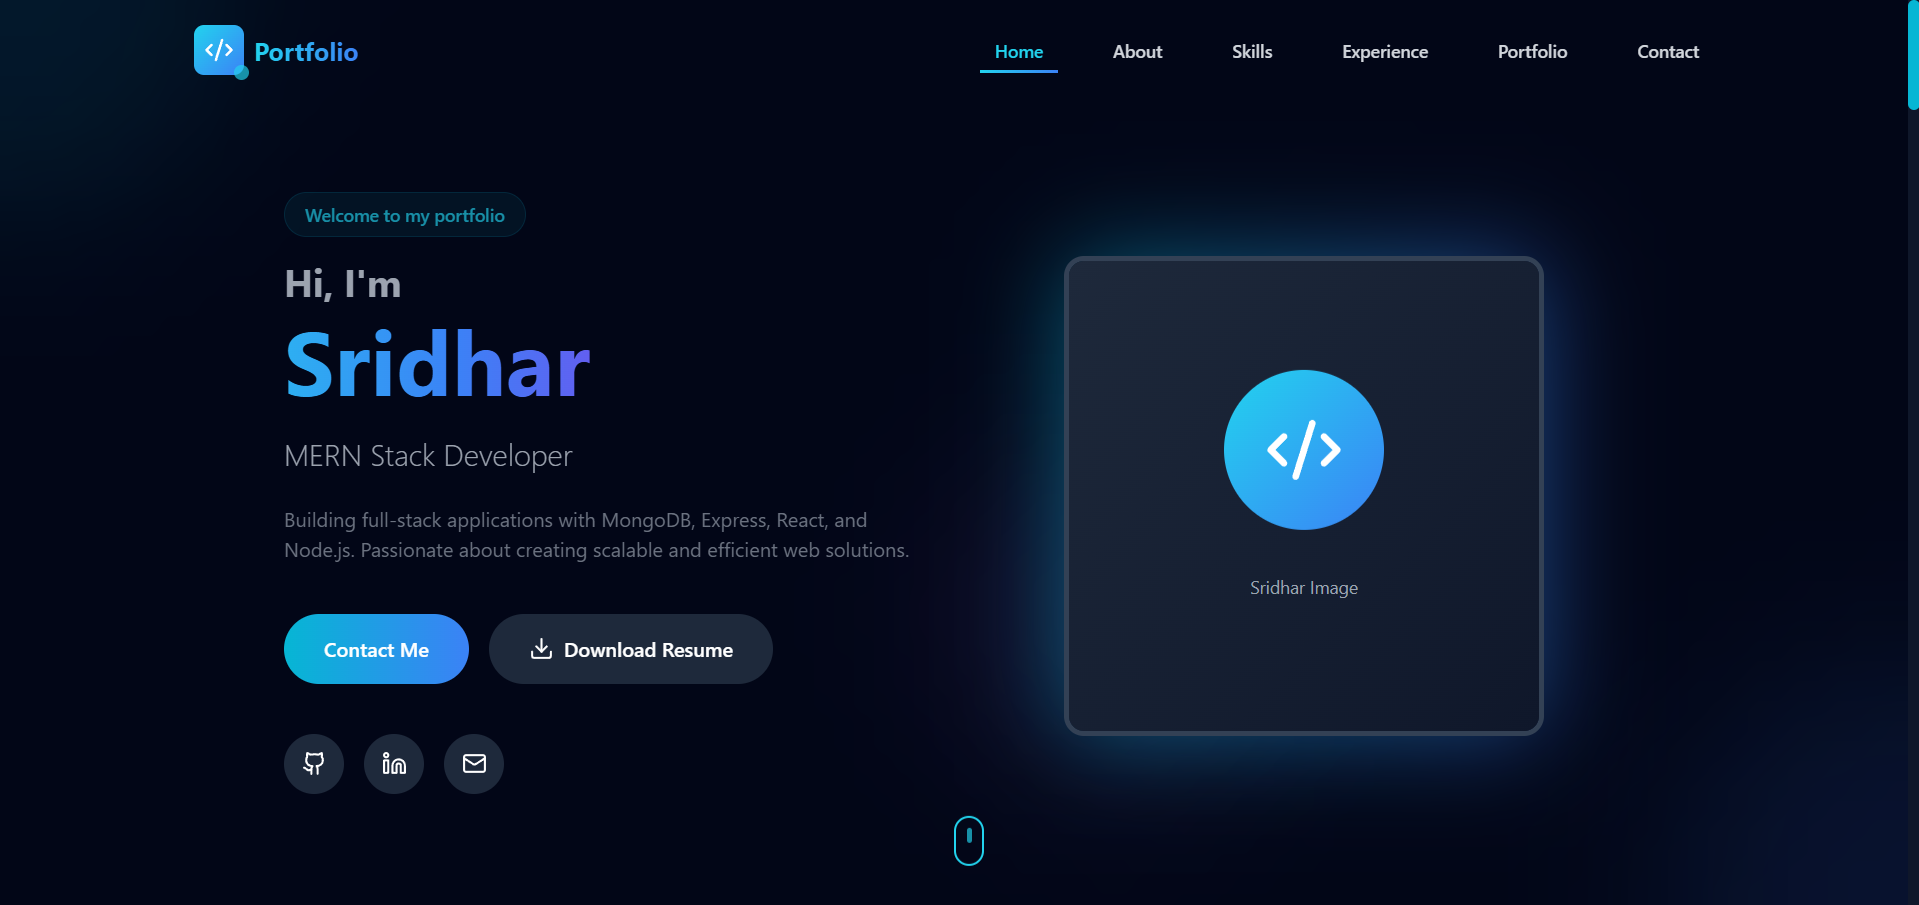
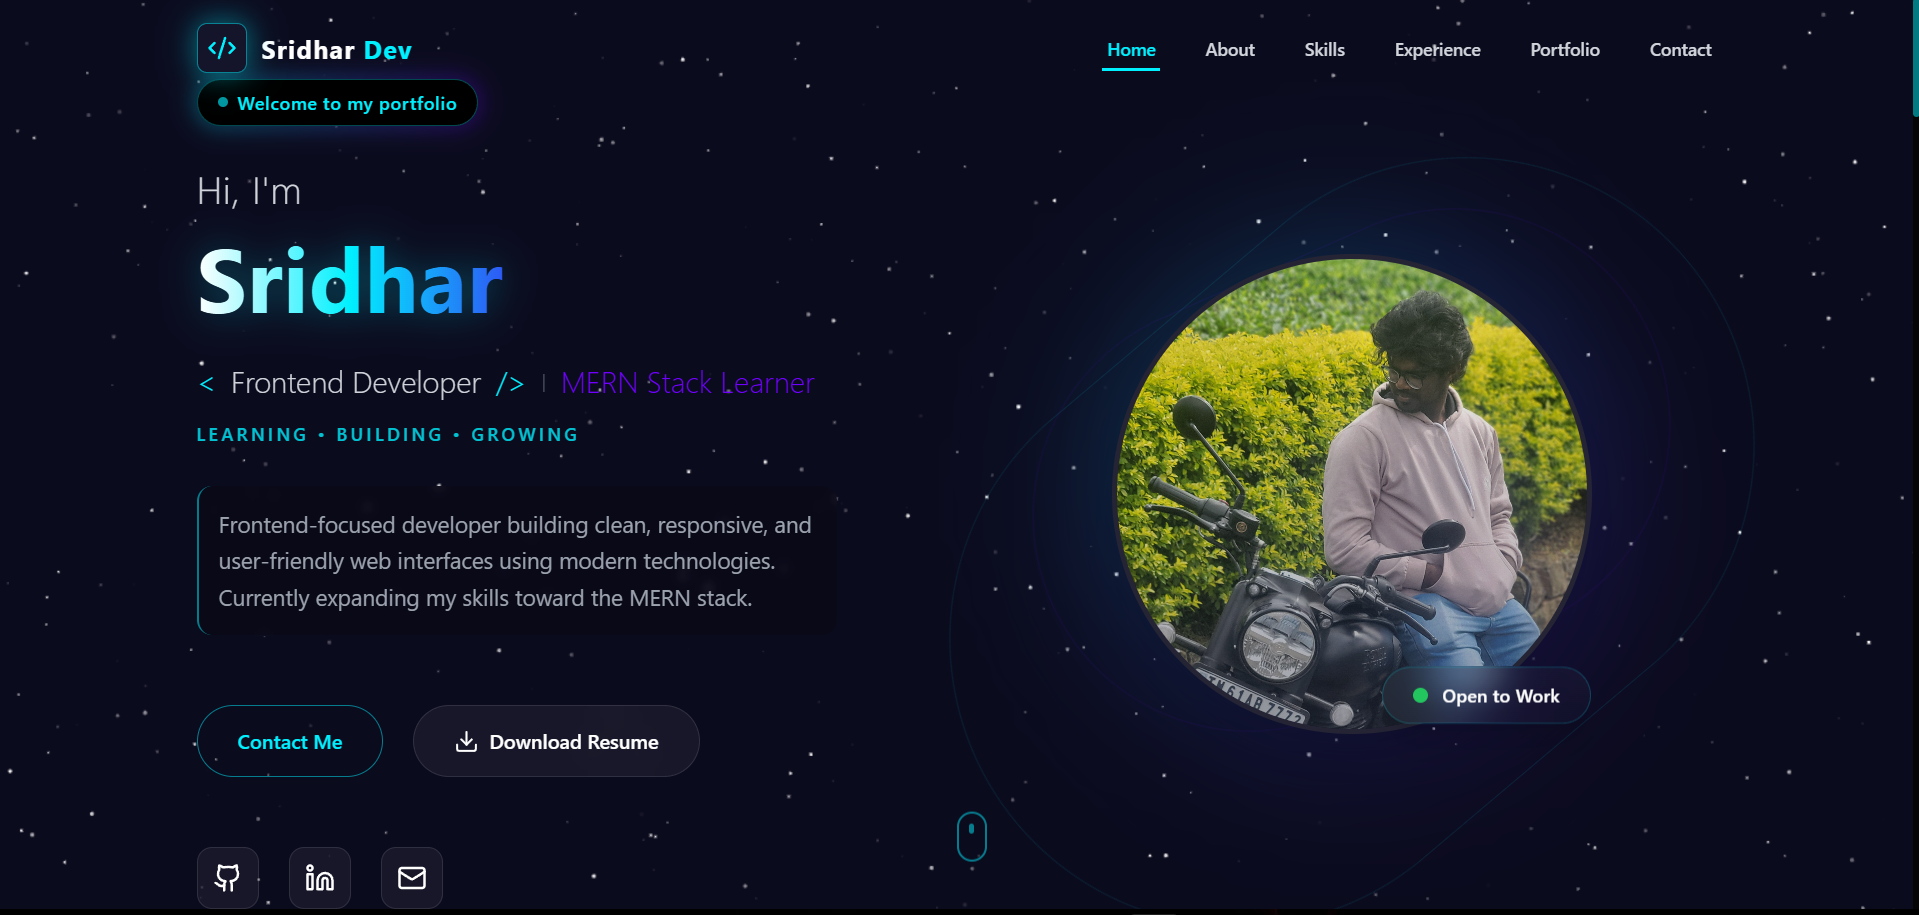
page redesign

diff --git a/index.html b/index.html
@@ -1,53 +1,49 @@
 <!doctype html>
 <html lang="en">
-  <head>
-    <!-- Basic -->
-    <meta charset="UTF-8" />
-    <meta name="viewport" content="width=device-width, initial-scale=1.0" />
 
-    <!-- Title -->
-    <title>Sridhar Portfolio</title>
+<head>
+  <!-- Basic -->
+  <meta charset="UTF-8" />
+  <meta name="viewport" content="width=device-width, initial-scale=1.0" />
 
-    <!-- SEO -->
-    <meta
-      name="description"
-      content="Sridhar is a Frontend Developer and MERN Stack Learner skilled in React, TypeScript, Tailwind CSS, and modern web technologies. Explore projects, skills, and experience."
-    />
-    <meta
-      name="keywords"
-      content="Sridhar, Frontend Developer, MERN Stack Developer, React Developer, TypeScript, Tailwind CSS, Portfolio"
-    />
-    <meta name="author" content="Sridhar" />
+  <!-- Title -->
+  <title>Sridhar Portfolio</title>
+  <!-- Canonical URL -->
+  <link rel="canonical" href="https://sridhar-dev-portfolio.vercel.app" />
 
-    <!-- Favicon (Vite BEST PRACTICE) -->
-    <!-- IMPORTANT: move favicon to /public -->
-    <link rel="icon" type="image/png" href="/favicon.png" />
+  <!-- SEO -->
+  <meta name="description"
+    content="Sridhar is a Frontend Developer and MERN Stack Learner skilled in React, TypeScript, Tailwind CSS, and modern web technologies. Explore projects, skills, and experience." />
+  <meta name="keywords"
+    content="Sridhar, Frontend Developer, MERN Stack Developer, React Developer, TypeScript, Tailwind CSS, Portfolio" />
+  <meta name="author" content="Sridhar" />
 
-    <!-- Open Graph (LinkedIn, WhatsApp, Facebook) -->
-    <meta property="og:title" content="Sridhar | Frontend Developer & MERN Stack Learner" />
-    <meta
-      property="og:description"
-      content="Frontend-focused developer building clean, responsive, and user-friendly web applications using React and modern technologies."
-    />
-    <meta property="og:type" content="website" />
-    <meta property="og:url" content="https://sridhar-dev-portfolio.vercel.app" />
-    <meta property="og:image" content="https://sridhar-dev-portfolio.vercel.app/og-image.png" />
+  <!-- Favicon (Vite BEST PRACTICE) -->
+  <!-- IMPORTANT: move favicon to /public -->
+  <link rel="icon" type="image/png" href="/favicon.png" />
 
-    <!-- Twitter / X -->
-    <meta name="twitter:card" content="summary_large_image" />
-    <meta name="twitter:title" content="Sridhar | Frontend Developer & MERN Stack Learner" />
-    <meta
-      name="twitter:description"
-      content="Explore Sridhar’s portfolio showcasing frontend projects, skills, and MERN stack learning journey."
-    />
-    <meta name="twitter:image" content="https://sridhar-dev-portfolio.vercel.app/og-image.png" />
+  <!-- Open Graph (LinkedIn, WhatsApp, Facebook) -->
+  <meta property="og:title" content="Sridhar Portfolio" />
+  <meta property="og:description"
+    content="Frontend-focused developer building clean, responsive, and user-friendly web applications using React and modern technologies." />
+  <meta property="og:type" content="website" />
+  <meta property="og:url" content="https://sridhar-dev-portfolio.vercel.app" />
+  <meta property="og:image" content="https://sridhar-dev-portfolio.vercel.app/og-image.png" />
 
-    <!-- Theme Color (Mobile browser UI) -->
-    <meta name="theme-color" content="#06b6d4" />
-  </head>
+  <!-- Twitter / X -->
+  <meta name="twitter:card" content="summary_large_image" />
+  <meta name="twitter:title" content="Sridhar Portfolio" />
+  <meta name="twitter:description"
+    content="Explore Sridhar’s portfolio showcasing frontend projects, skills, and MERN stack learning journey." />
+  <meta name="twitter:image" content="https://sridhar-dev-portfolio.vercel.app/og-image.png" />
 
-  <body>
-    <div id="root"></div>
-    <script type="module" src="/src/main.tsx"></script>
-  </body>
+  <!-- Theme Color (Mobile browser UI) -->
+  <meta name="theme-color" content="#06b6d4" />
+</head>
+
+<body>
+  <div id="root"></div>
+  <script type="module" src="/src/main.tsx"></script>
+</body>
+
 </html>

diff --git a/src/components/StarBackground.tsx b/src/components/StarBackground.tsx
@@ -21,7 +21,10 @@ const StarBackground: React.FC = () => {
         };
 
         const initStars = () => {
-            const starCount = Math.floor((window.innerWidth * window.innerHeight) / 2000); // Responsive density
+            const isMobile = window.innerWidth < 768;
+            const density = isMobile ? 4000 : 2500; // MUCH lower density on mobile
+            const starCount = Math.floor((window.innerWidth * window.innerHeight) / density);
+
             stars = [];
             for (let i = 0; i < starCount; i++) {
                 stars.push({
@@ -39,28 +42,42 @@ const StarBackground: React.FC = () => {
             ctx.clearRect(0, 0, canvas.width, canvas.height);
             ctx.fillStyle = '#FFF';
 
+            // Check if user prefers reduced motion
+            const prefersReducedMotion = window.matchMedia('(prefers-reduced-motion: reduce)').matches;
+
             stars.forEach((star) => {
                 ctx.beginPath();
-                ctx.arc(star.x, star.y, star.radius, 0, Math.PI * 2);
-                ctx.fillStyle = `rgba(255, 255, 255, ${star.opacity})`;
-                ctx.fill();
 
-                // Move stars
-                star.y -= star.speed;
-
-                // Reset if off screen
-                if (star.y < 0) {
-                    star.y = canvas.height;
-                    star.x = Math.random() * canvas.width;
+                // Performance: Draw tiny stars as rectangles (faster than arc)
+                if (star.radius < 1) {
+                    ctx.fillStyle = `rgba(255, 255, 255, ${star.opacity})`;
+                    ctx.fillRect(star.x, star.y, star.radius * 2, star.radius * 2);
+                } else {
+                    ctx.arc(star.x, star.y, star.radius, 0, Math.PI * 2);
+                    ctx.fillStyle = `rgba(255, 255, 255, ${star.opacity})`;
+                    ctx.fill();
                 }
 
-                // Twinkle effect
-                if (Math.random() > 0.99) {
-                    star.opacity = Math.random();
+                if (!prefersReducedMotion) {
+                    // Move stars only if not reduced motion
+                    star.y -= star.speed;
+
+                    // Reset if off screen
+                    if (star.y < 0) {
+                        star.y = canvas.height;
+                        star.x = Math.random() * canvas.width;
+                    }
+
+                    // Twinkle effect (less frequent for performance)
+                    if (Math.random() > 0.995) {
+                        star.opacity = Math.random();
+                    }
                 }
             });
 
-            animationFrameId = requestAnimationFrame(drawStars);
+            if (!prefersReducedMotion) {
+                animationFrameId = requestAnimationFrame(drawStars);
+            }
         };
 
         window.addEventListener('resize', handleResize);

diff --git a/src/components/Contact.tsx b/src/components/Contact.tsx
@@ -10,6 +10,26 @@ interface ContactProps {
 
 const Contact: React.FC<ContactProps> = ({ formStatus, handleContactSubmit }) => {
     const [isFormFocused, setIsFormFocused] = useState(false);
+    const [isVisible, setIsVisible] = useState(false);
+    const sectionRef = React.useRef<HTMLDivElement>(null);
+
+    React.useEffect(() => {
+        const observer = new IntersectionObserver(
+            ([entry]) => {
+                if (entry.isIntersecting) {
+                    setIsVisible(true);
+                    observer.disconnect(); // Once loaded, keep it loaded
+                }
+            },
+            { threshold: 0.1 }
+        );
+
+        if (sectionRef.current) {
+            observer.observe(sectionRef.current);
+        }
+
+        return () => observer.disconnect();
+    }, []);
 
     return (
         <section id="contact" className="min-h-screen flex items-center justify-center py-24 relative overflow-hidden">
@@ -184,11 +204,13 @@ const Contact: React.FC<ContactProps> = ({ formStatus, handleContactSubmit }) =>
                     <div className="flex justify-center items-center relative min-h-[300px] lg:min-h-[400px]">
                         <div className="absolute top-1/2 left-1/2 -translate-x-1/2 -translate-y-1/2 w-[140%] h-[140%] bg-accent-purple/5 blur-[100px] rounded-full pointer-events-none"></div>
                         <div className={`transition-all duration-700 ${isFormFocused ? 'scale-90 opacity-80 blur-[1px]' : 'scale-100 opacity-100'} `}>
-                            <Planet
-                                size={500}
-                                isPaused={isFormFocused}
-                                className="cursor-grab active:cursor-grabbing w-full max-w-[260px] aspect-square sm:max-w-[400px] lg:max-w-[500px] !h-auto"
-                            />
+                            {isVisible && (
+                                <Planet
+                                    size={500}
+                                    isPaused={isFormFocused}
+                                    className="cursor-grab active:cursor-grabbing w-full max-w-[260px] aspect-square sm:max-w-[400px] lg:max-w-[500px] !h-auto"
+                                />
+                            )}
                         </div>
 
                         {/* Decorative Orbital Rings */}
@@ -197,6 +219,9 @@ const Contact: React.FC<ContactProps> = ({ formStatus, handleContactSubmit }) =>
 
                 </div>
             </div>
+
+            {/* Scroll Observer for Planet Lazy Loading */}
+            <div ref={sectionRef} className="absolute inset-0 pointer-events-none" />
         </section>
     );
 };

diff --git a/src/App.tsx b/src/App.tsx
@@ -6,12 +6,14 @@ import { ArrowUp } from 'lucide-react';
 import StarBackground from './components/StarBackground';
 import Navbar from './components/Navbar';
 import Hero from './components/Hero';
-import About from './components/About';
-import Skills from './components/Skills';
-import Experience from './components/Experience';
-import Portfolio from './components/Portfolio';
-import Contact from './components/Contact';
 import Footer from './components/Footer';
+
+// Lazy Load below-the-fold sections
+const About = React.lazy(() => import('./components/About'));
+const Skills = React.lazy(() => import('./components/Skills'));
+const Experience = React.lazy(() => import('./components/Experience'));
+const Portfolio = React.lazy(() => import('./components/Portfolio'));
+const Contact = React.lazy(() => import('./components/Contact'));
 
 // Assets
 import resumePdf from './Assets/SRIDHAR-RESUME.pdf';
@@ -103,18 +105,16 @@ function App() {
           profileImg={profileImg}
         />
 
-        <About />
-
-        <Skills />
-
-        <Experience />
-
-        <Portfolio />
-
-        <Contact
-          formStatus={formStatus}
-          handleContactSubmit={handleContactSubmit}
-        />
+        <React.Suspense fallback={<div className="h-screen w-full flex items-center justify-center text-accent-cyan/50">Loading...</div>}>
+          <About />
+          <Skills />
+          <Experience />
+          <Portfolio />
+          <Contact
+            formStatus={formStatus}
+            handleContactSubmit={handleContactSubmit}
+          />
+        </React.Suspense>
       </main>
 
       <Footer />

diff --git a/src/components/Navbar.tsx b/src/components/Navbar.tsx
@@ -62,6 +62,7 @@ const Navbar: React.FC<NavbarProps> = ({ activeSection, isMenuOpen, setIsMenuOpe
                         <button
                             onClick={() => setIsMenuOpen(!isMenuOpen)}
                             className="inline-flex items-center justify-center p-2 rounded-md text-gray-400 hover:text-white hover:bg-white/10 transition-colors duration-300 focus:outline-none"
+                            aria-label="Toggle menu"
                         >
                             {isMenuOpen ? <X className="h-6 w-6 text-accent-cyan" /> : <Menu className="h-6 w-6" />}
                         </button>
@@ -77,8 +78,8 @@ const Navbar: React.FC<NavbarProps> = ({ activeSection, isMenuOpen, setIsMenuOpe
                             key={item}
                             onClick={() => scrollToSection(item.toLowerCase())}
                             className={`block w-full text-left px-3 py-3 rounded-md text-base font-medium transition-all duration-300 ${activeSection === item.toLowerCase()
-                                    ? 'bg-accent-cyan/10 text-accent-cyan border-l-4 border-accent-cyan'
-                                    : 'text-gray-300 hover:bg-white/5 hover:text-white'
+                                ? 'bg-accent-cyan/10 text-accent-cyan border-l-4 border-accent-cyan'
+                                : 'text-gray-300 hover:bg-white/5 hover:text-white'
                                 }`}
                         >
                             {item}

diff --git a/src/components/Hero.tsx b/src/components/Hero.tsx
@@ -101,7 +101,9 @@ const Hero: React.FC<HeroProps> = ({ scrollToSection, resumePdf, profileImg }) =
                             <div className="relative w-full h-full rounded-full overflow-hidden border-4 border-white/10 group-hover:border-accent-cyan/50 transition-all duration-500 transform group-hover:scale-105 shadow-2xl bg-space-900">
                                 <div className="absolute inset-0 bg-gradient-to-b from-transparent to-space-900/40 z-10"></div>
                                 <img
-                                    loading="lazy"
+                                    loading="eager"
+                                    // @ts-ignore
+                                    fetchpriority="high"
                                     src={profileImg}
                                     alt="Sridhar Profile"
                                     className="w-full h-full object-cover object-center transition-transform duration-700 group-hover:scale-110"

diff --git a/vite.config.ts b/vite.config.ts
@@ -7,4 +7,20 @@ export default defineConfig({
   optimizeDeps: {
     exclude: ['lucide-react'],
   },
+  build: {
+    rollupOptions: {
+      output: {
+        manualChunks(id) {
+          if (id.includes('node_modules')) {
+            if (id.includes('react') || id.includes('react-dom')) {
+              return 'vendor';
+            }
+            if (id.includes('three') || id.includes('@react-three')) {
+              return 'three-vendor';
+            }
+          }
+        },
+      },
+    },
+  },
 });
